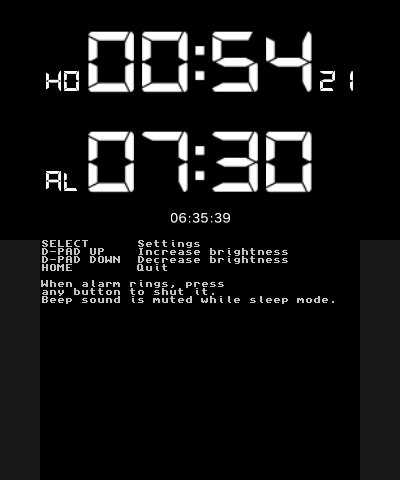
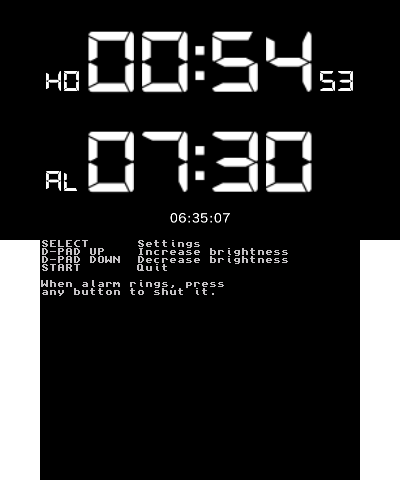
Some fixes - ~Fix exception on HOME menu call while ringing~ - ~Fix silent beep while sleep mode after having called HOME menu one or more times~ - Disable HOME menu calls - Add mutex acquire on alarm shut / Thread safety for I2C Dev3 writes - Update preview screenshot - Misc modifications

diff --git a/source/main.c b/source/main.c
@@ -36,14 +36,25 @@ static void alarmoSetSwitch(u8 flag) {
 
 PtmSleepConfig ptmEvCfg;
 
-aptHookCookie cookie;
+/**
+ * Forced JACK redirection in sleep mode is retablished on
+ * every HOME menu resume; But after a certain amount of resume with
+ * alarmoForceHeadphoneOut(false), the next HOME menu call will simply freeze.
+ * For now I couldn't found any solution for this issue, I disable HOME menu calls.
+ */
+/*
+aptHookCookie alarmoAptCk;
 static void aptHookFunc(APT_HookType hookType, void* param) {
+    printf("HS\n");
+
     switch (hookType) {
         case APTHOOK_ONSUSPEND:
+            //svcWaitSynchronization(alarmoEcMutex, 1000000000);
             if (alarmoRinging) alarmoShut = true;
             gspLcdInit();
             GSPLCD_PowerOnAllBacklights();
             gspLcdExit();
+            //svcReleaseMutex(alarmoEcMutex);
             break;
         case APTHOOK_ONRESTORE:
             if (alarmoRinging) alarmoShut = true;
@@ -52,30 +63,36 @@ static void aptHookFunc(APT_HookType hookType, void* param) {
                 GSPLCD_PowerOffBacklight(GSPLCD_SCREEN_BOTTOM);
                 gspLcdExit();
             }
+            // Is re-enabled after HOME menu call
+            alarmoForceHeadphoneOut(false);
             break;
         default:
             break;
     }
-}
+
+    printf("HE\n");
+}*/
 
 int main() {
     gfxInitDefault();
     C3D_Init(C3D_DEFAULT_CMDBUF_SIZE);
     C2D_Init(4096);
     C2D_Prepare();
+    C3D_FrameRate(30.0f);
 
     consoleInit(GFX_BOTTOM, NULL);
 
     aptInit();
 
-    // Ensure mainPara is active while sleep mode
+    // Ensure main & mainPara are active while sleep mode
     aptSetSleepAllowed(false);
+    aptSetHomeAllowed(false);
 
-    APT_SetAppCpuTimeLimit(4);
+    APT_SetAppCpuTimeLimit(10);
 
     ndmuInit();
 
-    aptHook(&cookie, aptHookFunc, NULL);
+    //aptHook(&alarmoAptCk, aptHookFunc, NULL);
 
     fsInit();
     romfsInit();
@@ -100,6 +117,9 @@ int main() {
 
     svcCreateMutex(&alarmoMutex, false);
 
+    // Avoids audio to be only emitted to JACK while sleep mode
+    alarmoForceHeadphoneOut(false);
+
     Thread mainParamT;
     {
         s32 prio;
@@ -120,7 +140,9 @@ int main() {
         u32 kDown = hidKeysDown();
         if (alarmoRinging || alarmoRepeatAt != 0) {
             if (kDown) {
+                svcWaitSynchronization(alarmoMutex, U64_MAX);
                 alarmoShut = true;
+                svcReleaseMutex(alarmoMutex);
             }
         }
 
@@ -139,6 +161,7 @@ int main() {
                 }
                 gspLcdInit();
                 if (alarmoSettings & ASET_POBS) {
+                    svcSleepThread(300000000); // Too early simply does nothing
                     GSPLCD_PowerOffBacklight(GSPLCD_SCREEN_BOTTOM);
                 }
                 gspLcdExit();
@@ -403,7 +426,7 @@ int main() {
                 GSPLCD_SetBrightnessRaw(GSPLCD_SCREEN_BOTTOM, nb);
                 gspLcdExit();
             }
-            if (kDown & KEY_START && envIsHomebrew()) break;
+            if (kDown & KEY_START) break;
             if (kDown & KEY_SELECT) {
                 alarmoSettingsInit();
                 continue;
@@ -418,6 +441,8 @@ int main() {
     im &= ~(1<<5);
     MCUHWC_WriteRegister(0x18, &im, 4);
     mcuHwcExit();*/
+
+    alarmoForceHeadphoneOut(true);
 
     alarmoGetOut = true;
     threadJoin(mainParamT, U64_MAX);
@@ -435,7 +460,8 @@ int main() {
     //ptmSysmExit();
     ndmuExit();
 
-    aptUnhook(&cookie);
+    //aptUnhook(&alarmoAptCk);
+    aptSetHomeAllowed(true);
     aptSetSleepAllowed(true);
     aptExit();
 

diff --git a/source/alarmo/beeper.c b/source/alarmo/beeper.c
@@ -1,10 +1,12 @@
 #include <alarmo/beeper.h>
 
 #include <math.h>
+#include <stdlib.h>
 #include <string.h>
 
 #include <alarmo/mcuHwc.h>
 #include <alarmo/rgbl.h>
+#include <alarmo/routine.h>
 #include <alarmo/settings.h>
 #include <alarmo/state.h>
 #include <alarmo/utils.h>
@@ -13,7 +15,7 @@
 #define BEEP2_STATE 40 // 4 beeps/s
 #define BEEP3_STATE 60 // 10 beeps/s
 
-#define BEEP_SAMPLERATE 32000
+#define BEEP_SAMPLERATE 64000
 #define BEEP_BYTESPERSAMPLE 4
 
 /*
@@ -61,8 +63,11 @@ bool beepEmit(u16 freq, u16 ms, bool force) {
 	waveBuf[1].data_vaddr = &audioBuffer[totalSamples];
 	waveBuf[1].nsamples = totalSamples;
 
-    for (int i=0; i<totalSamples*2; i++) {
-        s16 sample = INT16_MAX * sin(freq*(2*M_PI)*i/BEEP_SAMPLERATE);
+    // Limits *pops*
+    s16 sample = 0;
+    int i = 0;
+    while (abs(sample) > 0x1000 || i < totalSamples * 2) {
+        sample = INT16_MAX * sin(freq*(2*M_PI)*i++/BEEP_SAMPLERATE);
         audioBuffer[i] = (sample<<16) | (sample & 0xffff);
     }
     DSP_FlushDataCache(audioBuffer, totalSamples * 2);
@@ -122,6 +127,7 @@ bool beepCb() {
     return alarmoStop;
 }
 void beepEndCb() {
+    svcWaitSynchronization(alarmoMutex, U64_MAX);
     if (alarmoRepeatAt != 0) alarmoRepeatAt = 0;
 
     if (alarmoSettings & ASET_PWLB) {
@@ -131,6 +137,8 @@ void beepEndCb() {
         mcuHwcExit();
     }
     alarmoTinyNotify("Stopped.", 3);
+
+    svcReleaseMutex(alarmoMutex);
 
     rgbl_changeLed(alarmoRgbEnd);
     beepEmit(1661, 100, true);

diff --git a/source/alarmo/routine.c b/source/alarmo/routine.c
@@ -16,10 +16,9 @@ void alarmoMainInit() {
         "SELECT      Settings\n"
         "D-PAD UP    Increase brightness\n"
         "D-PAD DOWN  Decrease brightness\n"
-        "%s       Quit\n\n"
-        "When alarm rings, press\nany button to shut it.\nBeep sound is muted while sleep mode."
-        CONSOLE_RESET,
-        envIsHomebrew() ? "START" : "HOME "
+        "START       Quit\n\n"
+        "When alarm rings, press\nany button to shut it."
+        CONSOLE_RESET
     );
 
     gfxScreenSwapBuffers(GFX_BOTTOM, false);
@@ -54,9 +53,6 @@ void alarmoMainInit() {
 
 void mainPara(void* p) {
     u8 lastsec = 0;
-
-    // Avoids audio to be only emitted to JACK while sleep mode
-    alarmoForceHeadphoneOut(false);
 
     while (/*!aptShouldClose() &&*/ !alarmoGetOut) {
         if (alarmoStop) {

diff --git a/source/alarmo/utils.c b/source/alarmo/utils.c
@@ -10,9 +10,8 @@ void alarmoTinyNotify(char* msg, u8 sec) {
     alarmoTinyNotifyCur.end = osGetTime() + 1000*sec;
     svcReleaseMutex(alarmoMutex);
 }
-#include <stdio.h>
-Result alarmoForceHeadphoneOut(bool enable)
-{
+
+Result alarmoForceHeadphoneOut(bool enable) {
     Result res;
 
     Handle dspHandle;

diff --git a/source/alarmo/state.c b/source/alarmo/state.c
@@ -1,5 +1,7 @@
 #include <alarmo/state.h>
 
+#include <alarmo/routine.h>
+
 bool alarmoState = true;
 
 volatile bool alarmoShut = false;

diff --git a/README.md b/README.md
@@ -1,5 +1,5 @@
 # CTR Alarmo
-A simple, configurable alarm clock app for the Nintendo 3DS made with libctru
+Simple, configurable alarm clock app for the Nintendo 3DS made with libctru
 
 ![insc](./docres/insc.png)
 
